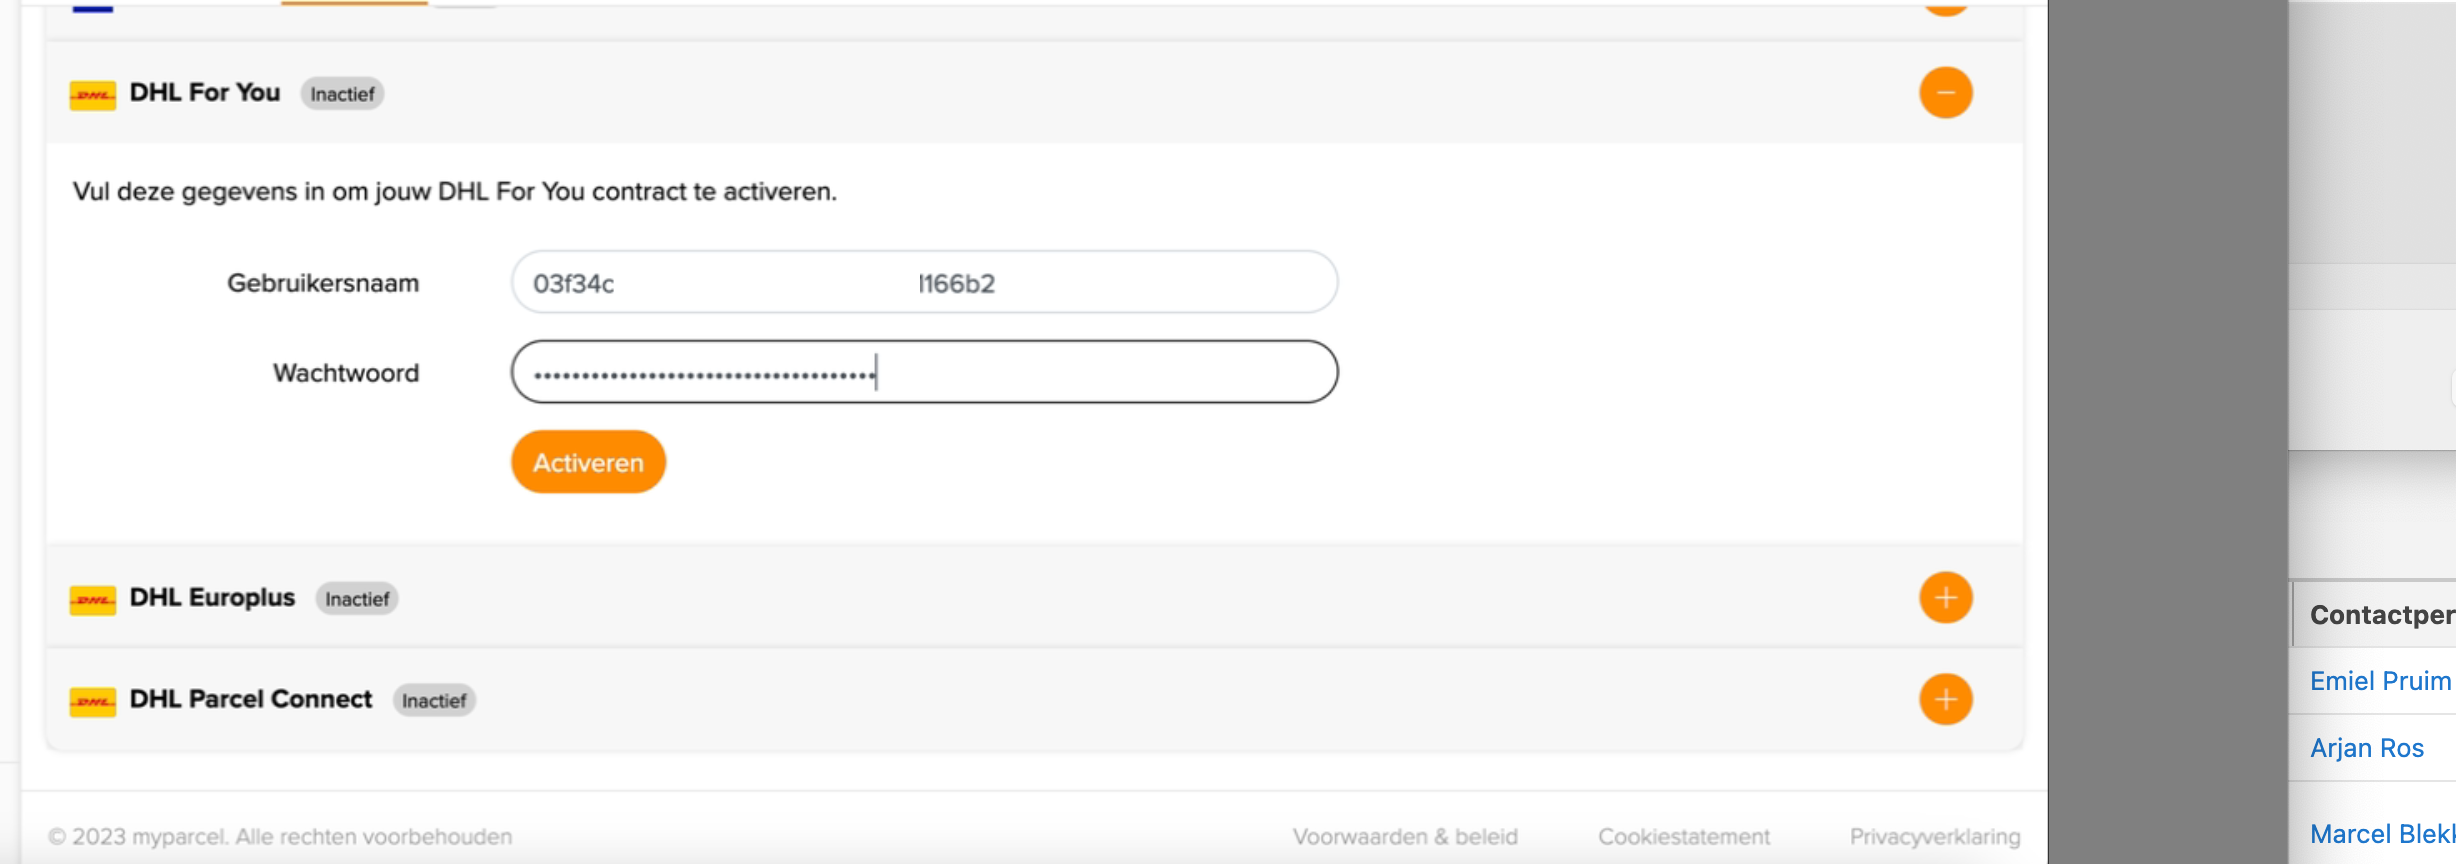
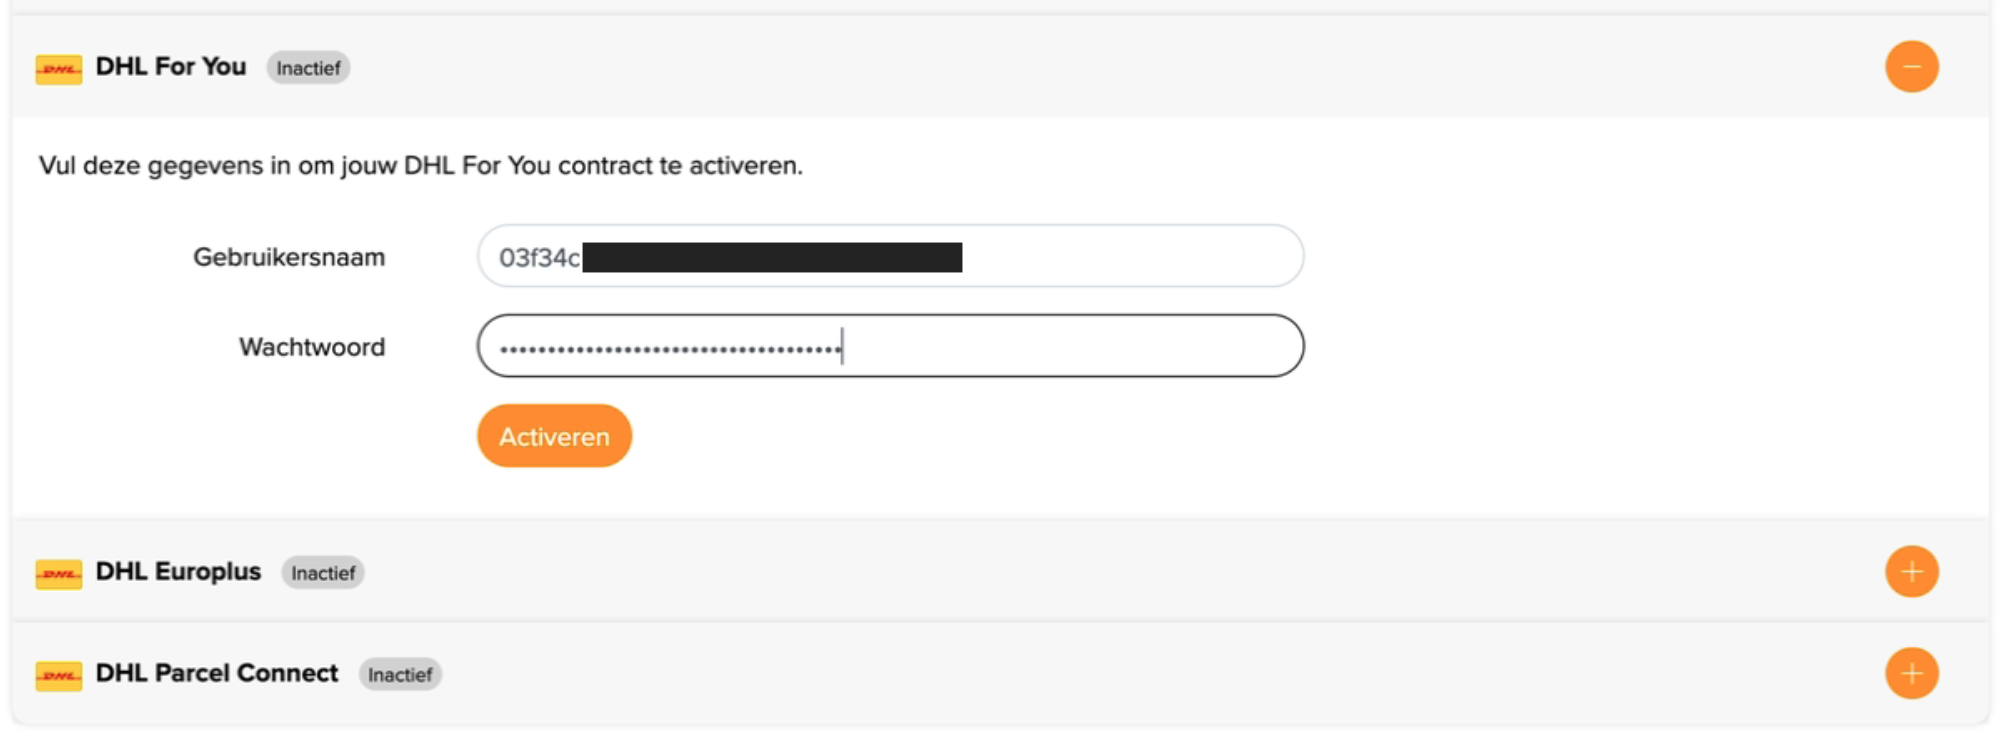
docs: update dhl docs

diff --git a/src/nl/documentatie/70.dhl.md b/src/nl/documentatie/70.dhl.md
@@ -2,15 +2,20 @@
 
 ## Inleiding
 
-Activeer op een simpele manier DHL contracten in de MyParcel MyContracts omgeving
+Activeer op een simpele manier DHL-contracten in de MyParcel MyContracts omgeving.
 
-### Om een contract voor DHL for you in te laden, moeten de volgende stappen worden uitgevoerd: 
+### Stappen
 
-<MPImg src="/documentation/dhl/api_sleutel.png" alt="De DHL api sleutel" />
+Om een contract voor DHL for you in te laden, dien je de volgende stappen uit te voeren:
 
-Inloggen op jouw DHL-omgeving, naar instellingen gaan en een API-sleutel genereren 
-(LET OP! Deze inloggegevens worden slechts één keer weergegeven in een modaal venster). 
+- Log in op jouw DHL-omgeving, ga naar instelling en genereer een API-sleutel.
+  <MPImg src="/documentation/dhl/api_sleutel.png" alt="De DHL API sleutel" />
 
-<MPImg src="/documentation/dhl/dhl_for_you.png" alt="DHL credentials op MyParcel" />
+  ::: note Let op!
+  Deze inloggegevens worden slechts één keer weergegeven in een pop-up venster.
+  :::
 
-Vervolgens moet de Gebruikersnaam worden ingesteld als UserID en het Wachtwoord als Key.
+- Vervolgens vul je de "UserID" in in het veld "Gebruikersnaam", en de "Key" in het veld "Wachtwoord".
+  <MPImg src="/documentation/dhl/dhl_for_you.png" alt="DHL credentials invoeren in de MyParcel Backoffice" />
+
+- Klik op "Activeren". Je DHL-contract is nu geactiveerd!
